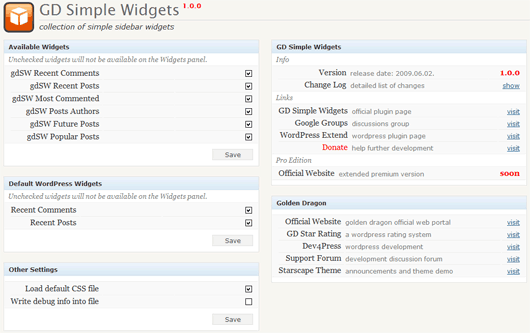
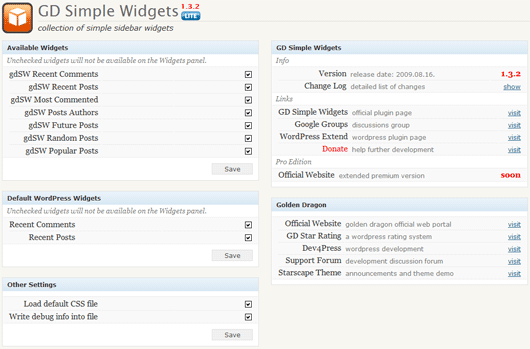
git-svn-id: https://plugins.svn.wordpress.org/gd-simple-widgets/trunk@146329 b8457f37-d9ea-0310-8a92-e5e31aec5664

diff --git a/css/admin_main.css b/css/admin_main.css
@@ -1,32 +1,67 @@
+h2.gdswlogopage {
+	background: transparent url(../gfx/menu32.png) no-repeat;
+	padding: 0 0 0 38px;
+	height: 32px;
+	margin: 14px 0;
+	line-height: 30px;
+	font-family: "Lucida Grande", "Lucida Sans Unicode", Tahoma, Verdana, sans-serif;
+   border: 0;
+   font-style: normal;
+}
+
 #gdswlogo {
-	background: transparent url(../gfx/logo.png) no-repeat;
-	height: 64px;
-	padding-left: 72px;
-	margin-top: 15px;
+    background: transparent url(../gfx/logo.png) no-repeat;
+    height: 64px;
+    padding-left: 72px;
+    margin-top: 10px;
 }
 
 #gdswlogo .gdswtitle {
 	font-size: 30px;
 	font-style: normal;
 	font-family: "Lucida Grande", "Lucida Sans Unicode", Tahoma, Verdana, sans-serif;
-	padding: 0 0 13px 0;
+	padding: 0 0 0px;
 	border-bottom: 1px solid #DADADA;
 	color: #696969;
-}
-
-#gdswlogo h3 {
-	margin: 3px 0 0 0;
-	font-style: italic;
-	font-weight: normal;
 }
 
 .gdswtitle span {
 	font-size: 12px;
 	vertical-align: 14px;
-	color: red;
-	font-weight: bold;
-	margin-left: 5px;
+   color: red;
+   font-weight: bold;
+	margin-left: -40px;
 }
+
+.gdswtitle div.titlers {
+	float: left;
+	margin-top: 7px;
+}
+
+.gdswtitle div.edition {
+	float: left;
+	width: 40px;
+	height: 20px;
+	margin-left: 3px;
+	margin-top: 18px;
+}
+
+.gdswtitle div.edition.pro {
+   background: transparent url(../gfx/pro.png) no-repeat;
+}
+
+.gdswtitle div.edition.lite {
+   background: transparent url(../gfx/lite.png) no-repeat;
+}
+
+#gdswlogo h3 {
+   margin: 3px 0 0 0;
+   font-style: italic;
+   font-weight: normal;
+}
+
+.clear { clear: both; }
+/* page titles */
 
 /* front grid */
 .frontleft { width: 500px; }

diff --git a/info/changelog.html b/info/changelog.html
@@ -48,6 +48,14 @@
 </div>
 
 <div class="contents">
+<h3>Version 1.3.2 / august 16 2009</h3><ul>
+    <li><strong>edit</strong> several small updates</li>
+    <li><strong>fix</strong> several missing translation strings</li>
+    <li><strong>fix</strong> getting data for popular posts widget</li>
+</ul>
+<h3>Version 1.3.1 / august 8 2009</h3><ul>
+    <li><strong>fix</strong> some of the functions</li>
+</ul>
 <h3>Version 1.3.0 / august 4 2009</h3><ul>
     <li><strong>new</strong> functions for getting widgets results</li>
     <li><strong>new</strong> functions for rendering widgets</li>

diff --git a/info/update.html b/info/update.html
@@ -1,2 +1,2 @@
-<span style="color: red; font-variant: small-caps; font-weight: bold">Version 1.3.0 Changes: </span>
-Functions for getting widgets results and rendering.
+<span style="color: red; font-variant: small-caps; font-weight: bold">Version 1.3.2 Changes: </span>
+Several updates and fixes.

diff --git a/admin/settings.php b/admin/settings.php
@@ -78,12 +78,12 @@
         <div class="table">
             <table><tbody>
                 <tr class="first">
-                    <td class="first b">Load default CSS file</td>
+                    <td class="first b"><?php _e("Load default CSS file", "gd-simple-widgets"); ?></td>
                     <td class="t"></td>
                     <td class="t options"><input<?php if ($options["load_default_css"] == 1) echo " checked"; ?> type="checkbox" name="load_default_css" /></td>
                 </tr>
                 <tr>
-                    <td class="first b">Write debug info into file</td>
+                    <td class="first b"><?php _e("Write debug info into file", "gd-simple-widgets"); ?></td>
                     <td class="t"></td>
                     <td class="t options"><input<?php if ($options["debug_into_file"] == 1) echo " checked"; ?> type="checkbox" name="debug_into_file" /></td>
                 </tr>

diff --git a/gd-simple-widgets.php b/gd-simple-widgets.php
@@ -4,7 +4,7 @@
 Plugin Name: GD Simple Widgets
 Plugin URI: http://www.dev4press.com/plugin/gd-simple-widgets/
 Description: Collection of powerful, easy to use widgets that expand default widgets. Plugin also adds few more must-have widgets for posts, authors and comments.
-Version: 1.3.1
+Version: 1.3.2
 Author: Milan Petrovic
 Author URI: http://www.dev4press.com/
 
@@ -81,6 +81,7 @@ if (!class_exists('GDSimpleWidgets')) {
                 $this->o["date"] = $this->default_options["date"];
                 $this->o["status"] = $this->default_options["status"];
                 $this->o["build"] = $this->default_options["build"];
+                $this->o["edition"] = $this->default_options["edition"];
                 $this->o["product_id"] = $this->default_options["product_id"];
 
                 update_option('gd-simple-widgets', $this->o);

diff --git a/admin/panel.php b/admin/panel.php
@@ -1,6 +1,11 @@
 <div class="wrap">
     <div id="gdswlogo">
-        <div class="gdswtitle">GD Simple Widgets<span><?php echo $options["version"]; ?></span></div>
+        <div class="gdswtitle">
+            <div class="titlers">GD Simple Widgets</div>
+            <div class="edition <?php echo $options["edition"]; ?>"></div>
+            <span><?php echo $options["version"]; ?></span>
+            <div class="clear"></div>
+        </div>
         <h3><?php _e("collection of simple sidebar widgets", "gd-simple-widgets"); ?></h3>
     </div>
 

diff --git a/code/defaults.php b/code/defaults.php
@@ -2,12 +2,12 @@
 
 class GDSWDefaults {
     var $default_options = array(
-        "version" => "1.3.1",
-        "date" => "2009.08.07.",
+        "version" => "1.3.2",
+        "date" => "2009.08.16.",
         "status" => "Stable",
         "product_id" => "gd-simple-widgets",
-        "build" => 50,
-        "edition" => "free",
+        "build" => 53,
+        "edition" => "lite",
         "load_default_css" => 1,
         "debug_into_file" => 0,
         "lock_popular_posts" => 0,

diff --git a/widgets/gdsw-popular-posts.php b/widgets/gdsw-popular-posts.php
@@ -82,8 +82,8 @@ class gdswPopularPosts extends gdsw_Widget {
         }
         if ($instance["filter_recency"] != "allp") {
             $days = 0;
-            if ($instance["filter_recency"] != "tday") {
-                $where[] = "v.day = ".date("Y-m-d");
+            if ($instance["filter_recency"] == "tday") {
+                $where[] = "v.day = '".date("Y-m-d")."'";
             } else {
                 switch ($instance["filter_recency"]) {
                     case "lday":
